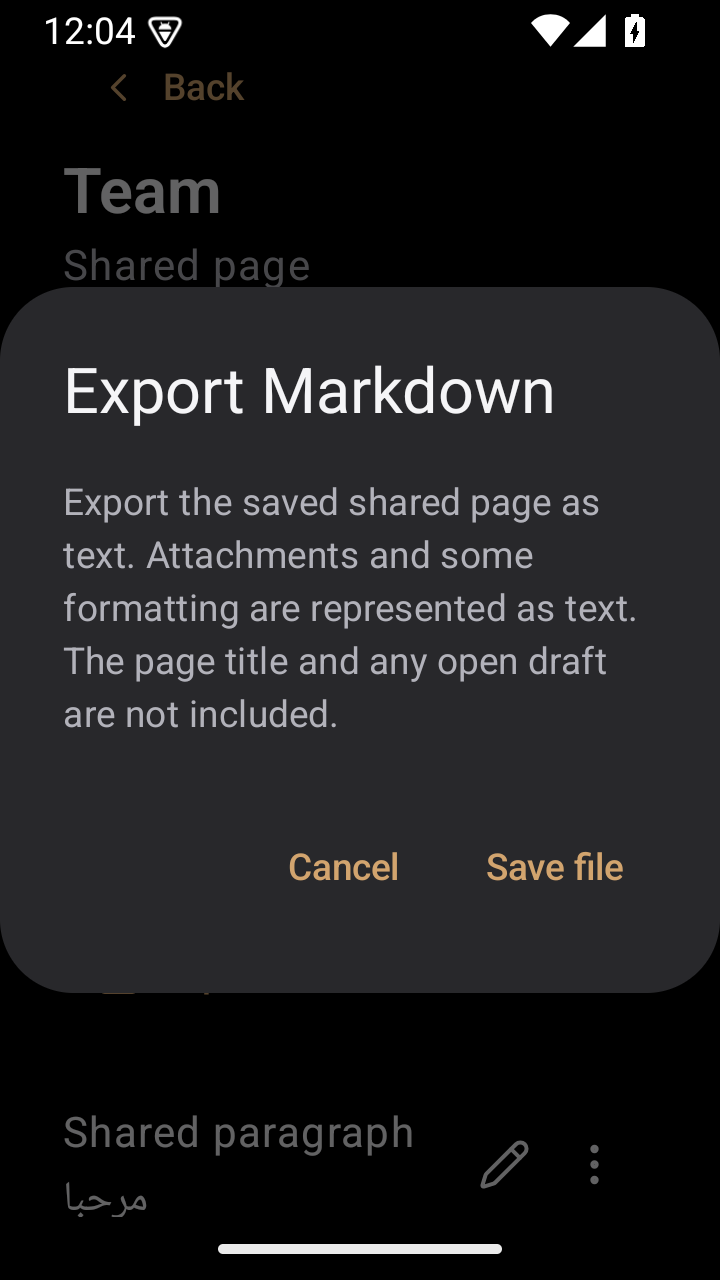
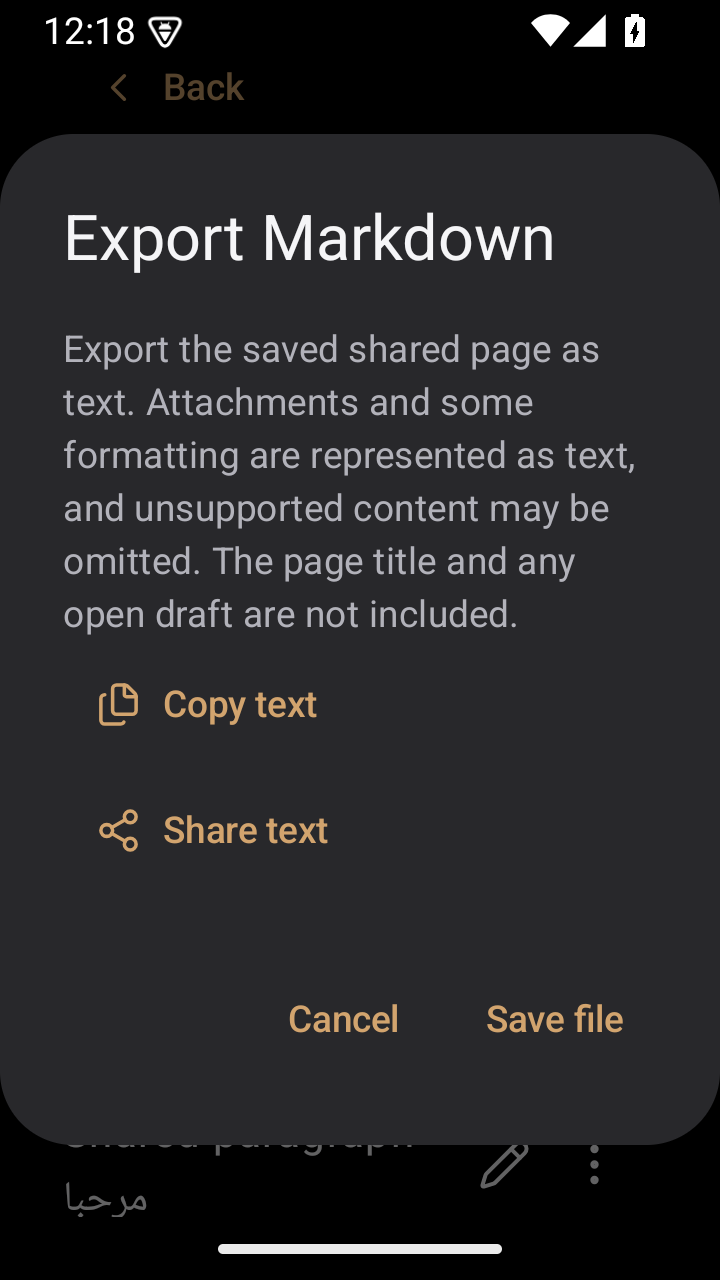
Share and copy shared page Markdown

diff --git a/Android/app/src/androidTest/kotlin/worlds/android/SharedRecoveryUiTest.kt b/Android/app/src/androidTest/kotlin/worlds/android/SharedRecoveryUiTest.kt
@@ -104,13 +104,55 @@ class SharedRecoveryUiTest {
                 compose.onNodeWithTag("shared_markdown_save").performClick()
                 val automation = InstrumentationRegistry.getInstrumentation().uiAutomation
                 compose.waitUntil(20_000) { automation.rootInActiveWindow?.packageName?.toString() == "com.google.android.documentsui" }
-                automation.executeShellCommand("input keyevent 4").use { android.os.ParcelFileDescriptor.AutoCloseInputStream(it).readBytes() }
+                if (InstrumentationRegistry.getArguments().getString("realPicker") == "1") {
+                    val filename = "worlds-shared-test-${UUID.randomUUID()}.md"
+                    val path = "/sdcard/Download/$filename"
+                    try {
+                        fun find(id: String) = automation.rootInActiveWindow?.findAccessibilityNodeInfosByViewId(id)?.firstOrNull()
+                        fun filenameField() = automation.rootInActiveWindow?.findAccessibilityNodeInfosByViewId("android:id/title")?.firstOrNull { it.isEditable }
+                        compose.waitUntil(20_000) { filenameField() != null && find("android:id/button1") != null }
+                        check(find("com.google.android.documentsui:id/breadcrumb_text")?.text?.toString() == "Downloads")
+                        val args = android.os.Bundle().apply { putCharSequence(android.view.accessibility.AccessibilityNodeInfo.ACTION_ARGUMENT_SET_TEXT_CHARSEQUENCE, filename) }
+                        check(filenameField()!!.performAction(android.view.accessibility.AccessibilityNodeInfo.ACTION_SET_TEXT, args))
+                        check(find("android:id/button1")!!.performAction(android.view.accessibility.AccessibilityNodeInfo.ACTION_CLICK))
+                        compose.waitUntil(20_000) { !controller.state.value.markdownExporting }
+                        assertEquals(R.string.markdown_export_success, controller.state.value.markdownStatus)
+                        val bytes = automation.executeShellCommand("cat $path").use { android.os.ParcelFileDescriptor.AutoCloseInputStream(it).readBytes() }
+                        assertEquals("Shared paragraph مرحبا\n\n## Shared heading\n", bytes.toString(Charsets.UTF_8))
+                    } finally {
+                        automation.executeShellCommand("rm -f $path").use { android.os.ParcelFileDescriptor.AutoCloseInputStream(it).readBytes() }
+                    }
+                } else automation.executeShellCommand("input keyevent 4").use { android.os.ParcelFileDescriptor.AutoCloseInputStream(it).readBytes() }
                 compose.waitUntil(20_000) { !controller.state.value.markdownExporting }
                 assertTrue(controller.beginMarkdownExport())
                 controller.finishMarkdownExport(app, android.net.Uri.fromFile(output))
                 compose.waitUntil(20_000) { !controller.state.value.markdownExporting }
                 assertEquals(R.string.markdown_export_success, controller.state.value.markdownStatus)
                 assertEquals("Shared paragraph مرحبا\n\n## Shared heading\n", output.readText())
+                compose.onNodeWithTag("shared_markdown").performScrollTo().performClick()
+                compose.onNodeWithTag("shared_markdown_copy").performClick()
+                compose.waitUntil(20_000) { controller.state.value.markdownStatus == R.string.markdown_copy_success }
+                val clipboard = app.getSystemService(android.content.Context.CLIPBOARD_SERVICE) as android.content.ClipboardManager
+                assertEquals("Shared paragraph مرحبا\n\n## Shared heading\n", clipboard.primaryClip!!.getItemAt(0).text.toString())
+                val shared = java.util.concurrent.atomic.AtomicReference<String>()
+                controller.deliverMarkdown(copy = false) { shared.set(it) }
+                compose.waitUntil(20_000) { shared.get() != null && !controller.state.value.markdownExporting }
+                val chooser = markdownShareIntent("Shared page", shared.get())
+                val send = chooser.getParcelableExtra<android.content.Intent>(android.content.Intent.EXTRA_INTENT)!!
+                assertEquals(android.content.Intent.ACTION_SEND, send.action)
+                assertEquals("Shared paragraph مرحبا\n\n## Shared heading\n", send.getStringExtra(android.content.Intent.EXTRA_TEXT))
+                if (InstrumentationRegistry.getArguments().getString("realShare") == "1") {
+                    compose.onNodeWithTag("shared_markdown").performScrollTo().performClick()
+                    compose.onNodeWithTag("shared_markdown_share").performClick()
+                    compose.waitUntil(20_000) {
+                        val active = automation.rootInActiveWindow?.packageName?.toString()
+                        active != null && active != app.packageName
+                    }
+                    automation.executeShellCommand("input keyevent 4").use { android.os.ParcelFileDescriptor.AutoCloseInputStream(it).readBytes() }
+                    compose.waitUntil(20_000) { automation.rootInActiveWindow?.packageName?.toString() == app.packageName }
+                }
+                controller.deliverMarkdown(copy = false) { error("No sharing target") }
+                compose.waitUntil(20_000) { controller.state.value.markdownStatus == R.string.markdown_share_error }
             } finally { output.delete() }
             if (InstrumentationRegistry.getArguments().getString("captureUi") == "1") {
                 compose.waitForIdle(); Thread.sleep(300)
@@ -167,6 +209,10 @@ class SharedRecoveryUiTest {
                 compose.waitUntil(20_000) { !controller.state.value.markdownExporting }
                 assertEquals(R.string.markdown_export_success, controller.state.value.markdownStatus)
                 assertEquals("Existing\n\n### Offline heading\n\nOffline draft\n", output.readText())
+                val copied = java.util.concurrent.atomic.AtomicReference<String>()
+                controller.deliverMarkdown(copy = true) { copied.set(it) }
+                compose.waitUntil(20_000) { controller.state.value.markdownStatus == R.string.markdown_copy_success }
+                assertEquals("Existing\n\n### Offline heading\n\nOffline draft\n", copied.get())
                 controller.edit(controller.state.value.blocks.first())
                 controller.updateDraft("Unsaved change")
                 assertTrue(controller.beginMarkdownExport())
@@ -192,6 +238,36 @@ class SharedRecoveryUiTest {
         } finally {
             controller.close(); assertTrue(controller.awaitDraftBackups()); runtime.accountChange { }
             store.close(); app.deleteDatabase(name)
+        }
+    }
+
+    @Test fun sharedTextDeliveryRejectsLargeContent() {
+        val app = InstrumentationRegistry.getInstrumentation().targetContext.applicationContext
+        val name = "shared-large-${UUID.randomUUID()}.db"
+        val authority = "https://identity.example"
+        val endpoint = "https://sync.example"
+        val key = SyncDocumentKey("user", "space", "page", 0, authority)
+        val store = AndroidSyncStore(app, name)
+        store.bindEndpoint(key, endpoint)
+        store.append(key, YrsNative.appendParagraph(byteArrayOf(), "large", "x".repeat(MAX_SHARE_TEXT_CHARS + 1)), local = false)
+        store.rememberAccess(key, "device", endpoint, "view")
+        val runtime = AccountSyncRuntime(
+            credentials = { throw java.io.IOException("offline") },
+            offlinePrincipal = { SyncPrincipal(authority, "user", "device") },
+            cachedPages = { server, account, device -> store.cachedPages(server, account, device) },
+            loadCached = { doc -> store.load(doc).let { replica -> replica.updates.fold(replica.snapshot ?: byteArrayOf()) { state, update -> YrsNative.merge(state, update.bytes) } } },
+            makeSession = { _, _, _, _ -> error("offline") },
+        )
+        val controller = SharedPageController(runtime, authority, "space", retryDelay = { 30_000 })
+        try {
+            controller.open(endpoint, "page")
+            compose.waitUntil(20_000) { controller.state.value.offline && controller.state.value.access == "view" }
+            val delivered = java.util.concurrent.atomic.AtomicBoolean(false)
+            controller.deliverMarkdown(copy = false) { delivered.set(true) }
+            compose.waitUntil(20_000) { controller.state.value.markdownStatus == R.string.shared_markdown_text_limit }
+            assertFalse(delivered.get())
+        } finally {
+            controller.close(); runtime.accountChange { }; store.close(); app.deleteDatabase(name)
         }
     }
 

diff --git a/Android/app/src/main/kotlin/worlds/android/SharedPageScreen.kt b/Android/app/src/main/kotlin/worlds/android/SharedPageScreen.kt
@@ -151,6 +151,28 @@ internal class SharedPageController(private val runtime: AccountSyncRuntime, pri
 
     fun markdownPickerFailed() { markdownSnapshot = null; mutable.update { it.copy(markdownExporting = false, markdownStatus = R.string.markdown_export_error) } }
 
+    fun deliverMarkdown(copy: Boolean, deliver: (String) -> Unit) {
+        if (!beginMarkdownExport()) return
+        val captured = markdownSnapshot ?: return
+        markdownSnapshot = null
+        scope.launch {
+            val text = runCatching { captured.blocks.map { MarkdownExport.block(JSONObject(it)) }.filter { it.isNotBlank() }.joinToString("\n\n") + "\n" }.getOrNull()
+            val status = when {
+                text == null -> if (copy) R.string.markdown_copy_error else R.string.markdown_share_error
+                text.length > MAX_SHARE_TEXT_CHARS -> R.string.shared_markdown_text_limit
+                else -> withContext(Dispatchers.Main) {
+                    val valid = !closed.get() && currentPrincipal == captured.principal && currentPage == captured.page &&
+                        mutable.value.access in setOf("view", "comment", "edit", "full") && !mutable.value.disconnected
+                    if (!valid) R.string.markdown_export_interrupted
+                    else if (runCatching { deliver(text) }.isFailure) {
+                        if (copy) R.string.markdown_copy_error else R.string.markdown_share_error
+                    } else if (copy) R.string.markdown_copy_success else null
+                }
+            }
+            if (!closed.get()) mutable.update { it.copy(markdownExporting = false, markdownStatus = status) }
+        }
+    }
+
     private fun scheduleOutbox(principal: SyncPrincipal, endpoint: String, page: String) {
         runCatching { runtime.scheduleOutbox(principal, endpoint, workspace, page) }
             .onFailure { if (!closed.get()) mutable.update { it.copy(backgroundScheduleFailed = true) } }
@@ -638,7 +660,9 @@ internal class SharedPageController(private val runtime: AccountSyncRuntime, pri
 
 @OptIn(ExperimentalLayoutApi::class)
 @Composable internal fun SharedPageScreen(identity: String, workspace: Workspace, onBack: () -> Unit, controllerOverride: SharedPageController? = null, initialServer: String = "", initialPage: String = "", initialThread: String? = null, initialComment: String? = null, onOpenNotification: ((NotificationTarget) -> Unit)? = null) {
-    val app = LocalContext.current.applicationContext
+    val context = LocalContext.current
+    val app = context.applicationContext
+    val sharedPageTitle = stringResource(R.string.shared_page_title)
     val controller = remember(identity, workspace.id, controllerOverride) { controllerOverride ?: SharedPageController(WorldsAccountSync.get(app), identity, workspace.id) }
     DisposableEffect(controller) { onDispose { controller.close() } }
     val state by controller.state.collectAsState()
@@ -647,7 +671,16 @@ internal class SharedPageController(private val runtime: AccountSyncRuntime, pri
     LaunchedEffect(state.access, state.disconnected) { if (state.access == null || state.disconnected) showMarkdown = false }
     if (showMarkdown && state.access != null && !state.disconnected) AlertDialog(onDismissRequest = { showMarkdown = false },
         title = { Text(stringResource(R.string.markdown_export)) },
-        text = { Text(stringResource(R.string.shared_markdown_explanation)) },
+        text = { Column(Modifier.heightIn(max = 420.dp).verticalScroll(rememberScrollState())) {
+            Text(stringResource(R.string.shared_markdown_explanation))
+            TextButton(onClick = { showMarkdown = false; controller.deliverMarkdown(copy = true) { clipboardText ->
+                val service = app.getSystemService(Context.CLIPBOARD_SERVICE) as android.content.ClipboardManager
+                service.setPrimaryClip(android.content.ClipData.newPlainText(sharedPageTitle, clipboardText))
+            } }, modifier = Modifier.testTag("shared_markdown_copy")) { WorldsActionLabel(R.drawable.ic_files, stringResource(R.string.markdown_copy)) }
+            TextButton(onClick = { showMarkdown = false; controller.deliverMarkdown(copy = false) { text ->
+                context.startActivity(markdownShareIntent(sharedPageTitle, text))
+            } }, modifier = Modifier.testTag("shared_markdown_share")) { WorldsActionLabel(R.drawable.ic_share_2, stringResource(R.string.markdown_share)) }
+        } },
         confirmButton = { TextButton(onClick = {
             showMarkdown = false
             if (controller.beginMarkdownExport()) runCatching { markdownPicker.launch("page.md") }.onFailure { controller.markdownPickerFailed() }
@@ -929,7 +962,7 @@ internal class SharedPageController(private val runtime: AccountSyncRuntime, pri
                 TextButton(enabled = !state.disconnected && state.snapshot != null && !state.markdownExporting, onClick = { showMarkdown = true }, modifier = Modifier.testTag("shared_markdown")) {
                     WorldsActionLabel(R.drawable.ic_download, stringResource(R.string.markdown_export))
                 }
-                state.markdownStatus?.let { Text(stringResource(it), color = if (it == R.string.markdown_export_success) MaterialTheme.colorScheme.onSurfaceVariant else MaterialTheme.colorScheme.error) }
+                state.markdownStatus?.let { Text(stringResource(it), color = if (it in setOf(R.string.markdown_export_success, R.string.markdown_copy_success)) MaterialTheme.colorScheme.onSurfaceVariant else MaterialTheme.colorScheme.error) }
                 Spacer(Modifier.height(12.dp))
                 val blockIdCounts = remember(state.blocks) { state.blocks.mapNotNull { it.id }.groupingBy { it }.eachCount() }
                 state.blocks.forEach { block ->

diff --git a/Android/app/src/main/kotlin/worlds/android/MainActivity.kt b/Android/app/src/main/kotlin/worlds/android/MainActivity.kt
@@ -155,7 +155,7 @@ private data class ImageExportSnapshot(val pageId: String, val attachmentId: Str
 private data class FileImportSnapshot(val parentId: String?, val parentRevision: Long?)
 private data class FileExportSnapshot(val resourceId: String, val attachmentId: String)
 internal data class ImageExportRequest(val name: String, val mime: String)
-private const val MAX_SHARE_TEXT_CHARS = 100_000
+internal const val MAX_SHARE_TEXT_CHARS = 100_000
 internal fun markdownShareIntent(title: String, text: String): Intent {
     require(text.length <= MAX_SHARE_TEXT_CHARS)
     val send = Intent(Intent.ACTION_SEND).setType("text/plain").putExtra(Intent.EXTRA_SUBJECT, title).putExtra(Intent.EXTRA_TEXT, text)

diff --git a/docs/android-native/FEATURE_PARITY_MATRIX.md b/docs/android-native/FEATURE_PARITY_MATRIX.md
@@ -25,12 +25,17 @@ uncommitted drawing work which is not included in this branch.
 | Search and history | `src-tauri/src/db.rs`, `src/views/ActivityView.tsx`, `src/views/TrashView.tsx` | Partially Implemented: local substring search, local page find and replace within individual text runs in paragraphs, headings and supported plain code blocks, including supported nested lists, tables, callouts, quotes, columns and tabs; text beside unsupported inline objects is searchable while the objects remain unchanged; case matching, result navigation, session retention, Ctrl+F and Ctrl+H page shortcuts, Enter and Shift+Enter result navigation, and revealing and highlighting supported paragraph, list-item and table-cell matches including horizontal and vertical scrolling, atomic revision-checked replacement with recoverable versions, trash, versions and basic activity. Unknown node types are excluded and reported; operations over 1,000 matches are rejected; full desktop history and indexing absent |
 | Stylus input | `src/drawing`, Android `core/stylus` | Partially Implemented: input routing, local canvas, stylus hover cursor and synthetic simultaneous pen with two-finger navigation; no hardware or latency validation, and physical mixed-input palm rejection remains unverified |
 
-Shared page Markdown export is available for authorized online and cached offline
-pages. It projects the captured saved blocks through the same Markdown converter
-as personal pages. The file excludes the unavailable shared page title, an open
-draft and original attachment bytes. Android 11 and 15 emulator tests verify the output,
-picker cancellation, offline edits, account changes and write failure. The actual
-system picker save flow for this action and other providers remain unverified.
+Shared page Markdown export, copy and sharing are available for authorized online
+and cached offline pages. They project the captured saved blocks through the same
+Markdown converter as personal pages. The result excludes the unavailable shared
+page title, an open draft and original attachment bytes, and unsupported content
+can be omitted. Android 11 and 15 emulator tests verify output, picker cancellation,
+offline edits, account changes and write failure. Android 15 also saved and read
+the actual file through the system picker and opened the Android sharesheet. Other
+document providers and delivery to an external sharing target remain unverified.
+An Android 11 emulator stopped responding during a synthetic test that placed
+over 100,000 characters in an open shared editor. Large shared text editing and
+preview performance require further investigation and device testing.
 
 Each area requires further inspection of behavior, persistence, contracts,
 tests and source status before it can be expanded into feature-level rows.

diff --git a/Android/DESIGN.md b/Android/DESIGN.md
@@ -9,6 +9,9 @@ picker selects the destination. Use existing Worlds surface, on-surface and warm
 accent roles, system typography and 48dp touch targets. Keep the action available
 for an authorized cached page offline, and show an error if saving fails or access
 is lost before the picker returns. No decorative motion is added.
+The same dialog offers labeled copy and share actions using the existing copy and
+share symbols. Both operate on the captured saved text and report failures in the
+page. The Android sharesheet handles destination selection.
 
 ## Library action menu
 The library is a list of real pages, with search and creation above it. Its
